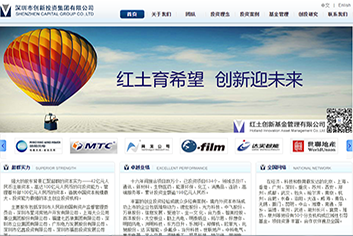
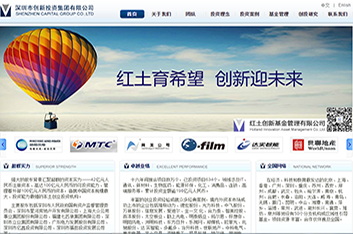
gerenzhan
123

Changed region(s): [[0.5921, 0.2991, 0.8725, 0.3889], [0.3428, 0.2991, 0.5921, 0.3889], [0.3116, 0.3291, 0.3428, 0.359]]

diff --git a/css/style.css b/css/style.css
@@ -49,6 +49,7 @@ margin-top:50px;
 .nav-right ul li{
 display:block;
   line-height: 4.2em;
+  width: 100%!important;
 }
 .nav-right ul li a {
   color: #323b43;
@@ -90,7 +91,7 @@ font-family: 'Jockey One', sans-serif;
 
 /*-- //banner --*/
 /*-- effect for nav --*/
-.cl-effect-1 a::before,
+/*.cl-effect-1 a::before,
 .cl-effect-1 a::after {
 	display: inline-block;
 	opacity: 0;
@@ -105,17 +106,17 @@ font-family: 'Jockey One', sans-serif;
 	-webkit-transform: translateX(20px);
 	-moz-transform: translateX(20px);
 	transform: translateX(20px);
-}
+}*/
 
-.cl-effect-1 a::after {
+/*.cl-effect-1 a::after {
 	margin-left: 10px;
 	content: ']';
 	-webkit-transform: translateX(-20px);
 	-moz-transform: translateX(-20px);
 	transform: translateX(-20px);
-}
+}*/
 
-.cl-effect-1 a:hover::before,
+/*.cl-effect-1 a:hover::before,
 .cl-effect-1 a:hover::after,
 .cl-effect-1 a:focus::before,
 .cl-effect-1 a:focus::after {
@@ -123,7 +124,7 @@ font-family: 'Jockey One', sans-serif;
 	-webkit-transform: translateX(0px);
 	-moz-transform: translateX(0px);
 	transform: translateX(0px);
-}
+}*/
 /*-- //effect --*/
 /*-- my skills --*/
 /*--- circles --*/
@@ -674,8 +675,8 @@ color:#76b852;
 	  font-size: 8em;
 	  }
 	.nav-right ul li a {
-	  font-size: 15px;
-	  padding: 10px 70px;
+	  font-size: 14px;
+	  padding: 10px 60px;
 	  }
 	.nav-right ul {
 	  margin: 27px 0 0 0;
@@ -684,10 +685,10 @@ color:#76b852;
 	  line-height: 3.8em;
 	}
 	.nav-right ul li:nth-child(2) a ,.nav-right ul li:nth-child(4) a {
-	  padding: 10px 55px;
+	  padding: 10px 45px;
 	}
 	.nav-right ul li:nth-child(1) a,.nav-right ul li:nth-child(5) a {
-	  padding: 10px 45px;
+	  padding: 10px 35px;
 	}
 	.about,.our-skills,div#portfolio,.services,.news,.get-in-touch,.contact-us {
 	  padding: 60px 0;
@@ -772,14 +773,14 @@ color:#76b852;
 	}
 	.nav-right ul li a {
 	  font-size: 14px;
-	  padding: 8px 47px;
-	}
-	.nav-right ul li:nth-child(2) a ,.nav-right ul li:nth-child(4) a {
 	  padding: 8px 37px;
 	}
-	.nav-right ul li:nth-child(1) a,.nav-right ul li:nth-child(5) a {
+	.nav-right ul li:nth-child(2) a ,.nav-right ul li:nth-child(4) a {
 	  padding: 8px 27px;
 	}
+	/*.nav-right ul li:nth-child(1) a,.nav-right ul li:nth-child(5) a {
+	  padding: 8px 17px;
+	}*/
 	.nav-right ul li {
 	  line-height: 3.5em;
 	}
@@ -1052,13 +1053,13 @@ color:#76b852;
 	}
 	.nav-right ul li a {
 	  font-size: 13px;
-	  padding: 8px 30px;
-	}
-	.nav-right ul li:nth-child(2) a ,.nav-right ul li:nth-child(4) a {
 	  padding: 8px 20px;
 	}
-	.nav-right ul li:nth-child(1) a,.nav-right ul li:nth-child(5) a {
+	.nav-right ul li:nth-child(2) a ,.nav-right ul li:nth-child(4) a {
 	  padding: 8px 10px;
+	}
+	.nav-right ul li:nth-child(1) a,.nav-right ul li:nth-child(5) a {
+	  padding: 8px 5px;
 	}
 	.nav-right ul li {
 	  line-height: 3.2em;
@@ -1205,13 +1206,13 @@ color:#76b852;
 	  width: 81%;
 	}
 	.nav-right ul li a {
-	  padding: 8px 11px;
+	  padding: 8px 5px;
 	}
 	.nav-right ul li:nth-child(2) a ,.nav-right ul li:nth-child(4) a {
-	  padding: 8px 7px;
+	  padding: 8px 3px;
 	}
 	.nav-right ul li:nth-child(1) a,.nav-right ul li:nth-child(5) a {
-	  padding: 8px 4px;
+	  padding: 8px 2px;
 	}
 	
 }

diff --git a/index.html b/index.html
@@ -20,7 +20,8 @@ License URL: http://creativecommons.org/licenses/by/3.0/
 		<meta http-equiv="Content-Type" content="text/html; charset=utf-8" />
 		<meta name="keywords" content="Peak Responsive web template, Bootstrap Web Templates, Flat Web Templates, Andriod Compatible web template, 
 		Smartphone Compatible web template, free webdesigns for Nokia, Samsung, LG, SonyErricsson, Motorola web design" />
-		<script type="application/x-javascript"> addEventListener("load", function() { setTimeout(hideURLbar, 0); }, false); function hideURLbar(){ window.scrollTo(0,1); } </script>
+		<script type="application/x-javascript"> 
+		addEventListener("load", function() { setTimeout(hideURLbar, 0); }, false); function hideURLbar(){ window.scrollTo(0,1); } </script>
 	<!-- //for-mobile-apps -->	
 	<!-- js -->
 		<script type="text/javascript" src="js/jquery.min.js"></script>
@@ -57,7 +58,7 @@ License URL: http://creativecommons.org/licenses/by/3.0/
 									<li><a class="scroll" href="#home">在下</a></li>
 									<li><a class="scroll" href="#about">关于我</a></li>
 									<li><a class="scroll" href="#portfolio">我的作品</a></li>
-									<li><a class="scroll" href="#services">我的技能</a></li>
+									<!-- <li><a class="scroll" href="#services">我的技能</a></li> -->
 									<li><a class="scroll" href="#contact">联系我</a></li>
 								</ul>
 							</nav>
@@ -154,7 +155,7 @@ License URL: http://creativecommons.org/licenses/by/3.0/
 										radius:     80,
 										width:      10,
 										number:   	percentage / 10,
-										text:       '%',
+										text:       '+',
 										colors:     colors[i - 1]
 									});
 								}
